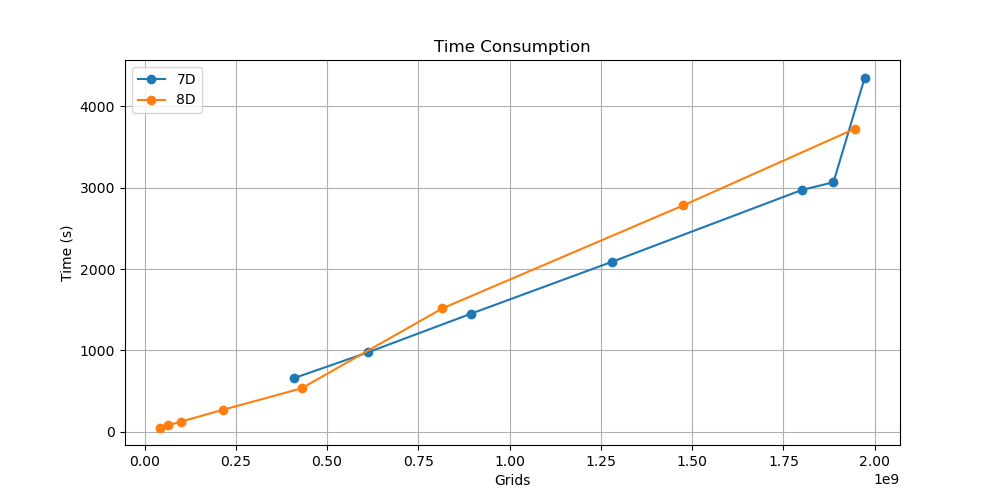
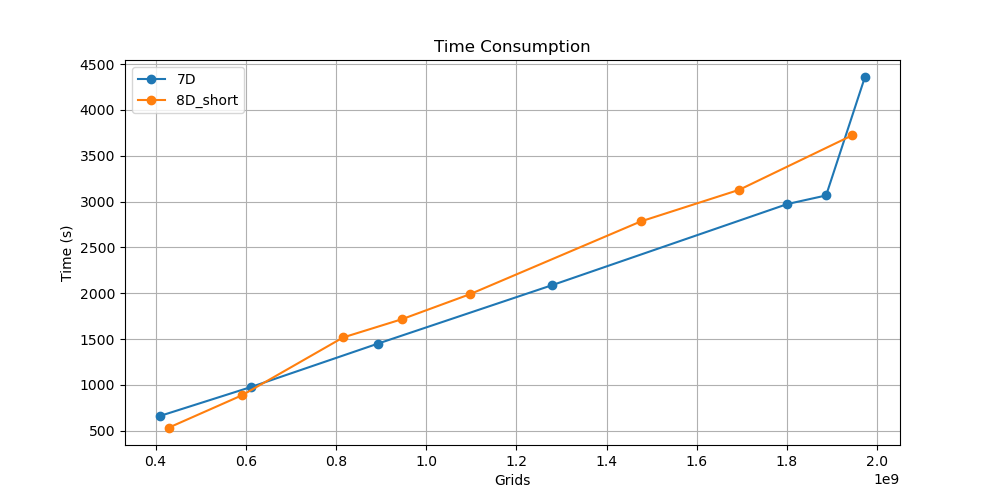
try 8D with grid=13^2*14^6

diff --git a/MRAG_Results/plot_grids_memory.py b/MRAG_Results/plot_grids_memory.py
@@ -12,23 +12,23 @@ grids_8D_short = [12**8, 12**4*13**4, 13**8, 13**6*14**2, 13**4*14**4, 14**8, 14
 memory_8D = [0.99, 1.45, 2.14, 4.42, 8.74, 11.98, 16.45, 19.06, 22.08, 29.65, 34.02, 39.03] # unit: GB
 memory_8D_short = [8.74, 11.98, 16.45, 19.06, 22.08, 29.65, 34.02, 39.03] # unit: GB
 
-time_8D = [53.44, 82.32, 126.14, 270.27, 534.50, 699.81, 1516.57, 2712.03, 1988.96, 2782.50, 5019.11, 3722.27] # unit: s
-time_8D_short = [534.50, 699.81, 1516.57, 2712.03, 1988.96, 2782.50, 5019.11, 3722.27] # unit: s
+time_8D = [53.44, 82.32, 126.14, 270.27, 534.50, 887.33, 1516.57, 1715.52, 1988.96, 2782.50, 3127.69, 3722.27] # unit: s
+time_8D_short = [534.50, 887.33, 1516.57, 1715.52, 1988.96, 2782.50, 3127.69, 3722.27] # unit: s
 
 
 
-# Plotting memory usage
-plt.figure(figsize=(10, 5))
-plt.scatter(grids_7D, memory_7D, label='7D', marker='o', color='b')
-# plt.scatter(grids_8D, memory_8D, label='8D', marker='o', color='r')
-plt.scatter(grids_8D_short, memory_8D_short, label='8D_short', marker='o', color='r')
-plt.xlabel('Grids')
-plt.ylabel('Memory (GB)')
-plt.title('Memory Usage')
-plt.legend()
-plt.grid(True)
-# plt.savefig('MRAG_Results/CalculationMemory_7D8D.png')
-plt.show()
+# # Plotting memory usage
+# plt.figure(figsize=(10, 5))
+# plt.scatter(grids_7D, memory_7D, label='7D', marker='o', color='b')
+# # plt.scatter(grids_8D, memory_8D, label='8D', marker='o', color='r')
+# plt.scatter(grids_8D_short, memory_8D_short, label='8D_short', marker='o', color='r')
+# plt.xlabel('Grids')
+# plt.ylabel('Memory (GB)')
+# plt.title('Memory Usage')
+# plt.legend()
+# plt.grid(True)
+# # plt.savefig('MRAG_Results/CalculationMemory_7D8D.png')
+# plt.show()
 
 
 # plt.figure(figsize=(10, 5))
@@ -57,5 +57,5 @@ plt.ylabel('Time (s)')
 plt.title('Time Consumption')
 plt.legend()
 plt.grid(True)
-# plt.savefig('MRAG_Results/CalculationTime_7D8D.png')
+plt.savefig('MRAG_Results/CalculationTime_7D8D.png')
 plt.show()

diff --git a/MRAG/hjvalue1v3_solar.py b/MRAG/hjvalue1v3_solar.py
@@ -30,8 +30,8 @@ start_time = time.time()
 print("The start time is {}".format(start_time))
 
 # 1. Initialize the grids
-grid_size1 = 12
-grid_size2 = 13
+grid_size1 = 13
+grid_size2 = 14
 # grids = Grid(np.array([-1.0, -1.0, -1.0, -1.0, -1.0, -1.0, -1.0, -1.0]), np.array([1.0, 1.0, 1.0, 1.0, 1.0, 1.0, 1.0, 1.0]), 
 #              8, np.array([2, 2, 2, 2, 2, 2, 2, 2]))  # for local test
 
@@ -39,7 +39,7 @@ grid_size2 = 13
 #              8, np.array([9, 9, 9, 9, 10, 10, 10, 10]))  # grid = 9^4*10^4
 
 grids = Grid(np.array([-1.0, -1.0, -1.0, -1.0, -1.0, -1.0, -1.0, -1.0]), np.array([1.0, 1.0, 1.0, 1.0, 1.0, 1.0, 1.0, 1.0]), 
-             8, np.array([grid_size1, grid_size1, grid_size1, grid_size1, grid_size2, grid_size2, grid_size2, grid_size2]))  # grid = 9^4*10^4
+             8, np.array([grid_size1, grid_size1, grid_size2, grid_size2, grid_size2, grid_size2, grid_size2, grid_size2]))  # grid = 9^4*10^4
 
 # grids = Grid(np.array([-1.0, -1.0, -1.0, -1.0, -1.0, -1.0, -1.0, -1.0]), np.array([1.0, 1.0, 1.0, 1.0, 1.0, 1.0, 1.0, 1.0]), 
 #              8, np.array([grid_size, grid_size, grid_size, grid_size, grid_size, grid_size, grid_size, grid_size])) 
